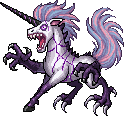
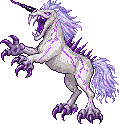
The Mythiclaw back to the user's earlier favourite, with its front claws thrust forward at the foe instead of hanging down, a darker black-violet horn and a wider roaring mouth (the user, 2026-11-26). Three versions are the finalists; A is in the game until they pick.

diff --git a/lib/sprites/creatures.ts b/lib/sprites/creatures.ts
@@ -19,7 +19,7 @@ const ART_SIZES: Record<string, [number, number]> = {
   moss_wolf: [82, 65],
   amber_wasp: [62, 55],
   bellow_toad: [90, 68],
-  dire_wolf: [120, 118], // the Mythiclaw (2026-11-26; the Dire Wolf's old art is rooms/dire_wolf_scene.png)
+  dire_wolf: [121, 123], // the Mythiclaw (2026-11-26; the Dire Wolf's old art is rooms/dire_wolf_scene.png)
   ironhide: [122, 87],
   cave_bat: [60, 63], // the Cave Goblin (was the Cave Bat; the id stays for old saves)
   rust_beetle: [81, 68],

diff --git a/public/sprites/PIXELLAB.md b/public/sprites/PIXELLAB.md
@@ -41,7 +41,7 @@ the PNG here.
 | creatures/troglodyte_brute.png | job 67ed269a-ca13-4765-83fe-b35df2944608 (pixen 128×128, gallery c335fd01-ea0d-5785-9bb3-faf5f7481f87) |
 | creatures/gravewarden.png | job 8cd2d3c2-fcb0-40b4-a98b-b79505ae73b1 (pixen 128×128, gallery bde346e7-3644-5a5e-bdd9-8584e533f2a6) |
 | creatures/hexed_puppet.png | edit_image_pro_flash 54cf04de-84a8-4d7d-b7e3-9524eba3d90e (a whole marionette cross) of pixen cc79a273-a6d2-476f-ad22-1e19d5242628 |
-| creatures/dire_wolf.png | the Mythiclaw (2026-11-26; the Dire Wolf's art moved to rooms/dire_wolf_scene.png), restyled to the user's reference (art/new-creatures-2026-11-26/ref): a fresh design to the user's brief (art/new-creatures-2026-11-26/README.md): edit_image_pro_flash 74bf4c14-0a0c-4ffe-91e0-c52caf8b7e8b (black spiral horn, jagged spine row) of pixen 16312154-49b3-4bf8-aa53-e9aff0e86de6; option A of three (stand-in until the user picks) |
+| creatures/dire_wolf.png | the Mythiclaw (2026-11-26; the Dire Wolf's art moved to rooms/dire_wolf_scene.png), restyled to the user's reference (art/new-creatures-2026-11-26/ref): edit_image_pro_flash 94a644c3-e5f2-4463-9dc9-c45c95c8ae9c (front claws thrust forward, dark horn, wider mouth) of dc199782-3504-41c5-b438-1f37f8f5f58a (heavy claws, by the user's reference) of 73ddf64f-9ba9-473c-bf27-38dfdc6278c9 of 0cdac18a-04e7-4dae-99ae-5bf7e993f0c3 of the rearing edit ea24f831-e781-43a5-8db0-5b98067ff58f; option A of three (stand-in until the user picks) |
 | creatures/labyrinth_sprite.png | edit_image_pro_flash c5ece9ed-93db-4bfb-ac56-76ac7a1ec93c (white-gold glowing eyes) of pixen 399499dc-a679-4dc3-8a3d-d87dc22c41ad; option C, the user's pick (2026-11-26) |
 | creatures/deep_angler.png | gallery:aa6e8bcd-c214-4545-8890-8c9f9b18fcb7 (raw generation; trimmed + mirrored here) |
 | creatures/tunnel_wyrm.png | gallery:6b352516-6423-470d-8f0c-1b50394f10a9 (raw generation; trimmed + mirrored here) |

diff --git a/art/new-creatures-2026-11-26/README.md b/art/new-creatures-2026-11-26/README.md
@@ -37,4 +37,9 @@ round8.png and round9.png: 12 fresh pixen drafts (N1–N12; the "head splits int
 back towards hooves). The judge's 3, fixed (round10.png, before and after): **the Mythiclaw finalists now**, A = X4 (N4: split
 jaw, raised claw, black spiral horn), B = X3 (N3 reared up, long locks), C = X9 (N9 with sickle talons on all four feet).
 
+Those are in finals/third-look/. The user: "we've moved further away … go back to C in the previous generation [K1] and make
+the front claws more facing forward (currently all claws just sag down), the horn darker and the mouth more open." round11.png:
+K1 and three edits of it. **The Mythiclaw finalists now:** A = P2, B = P1 (front claws thrust forward, dark horn, roaring),
+C = P3 (grabbing claws, blackest horn, widest jaw).
+
 **The Labyrinth Sprite: C, the user's pick** (2026-11-26), in the game.
